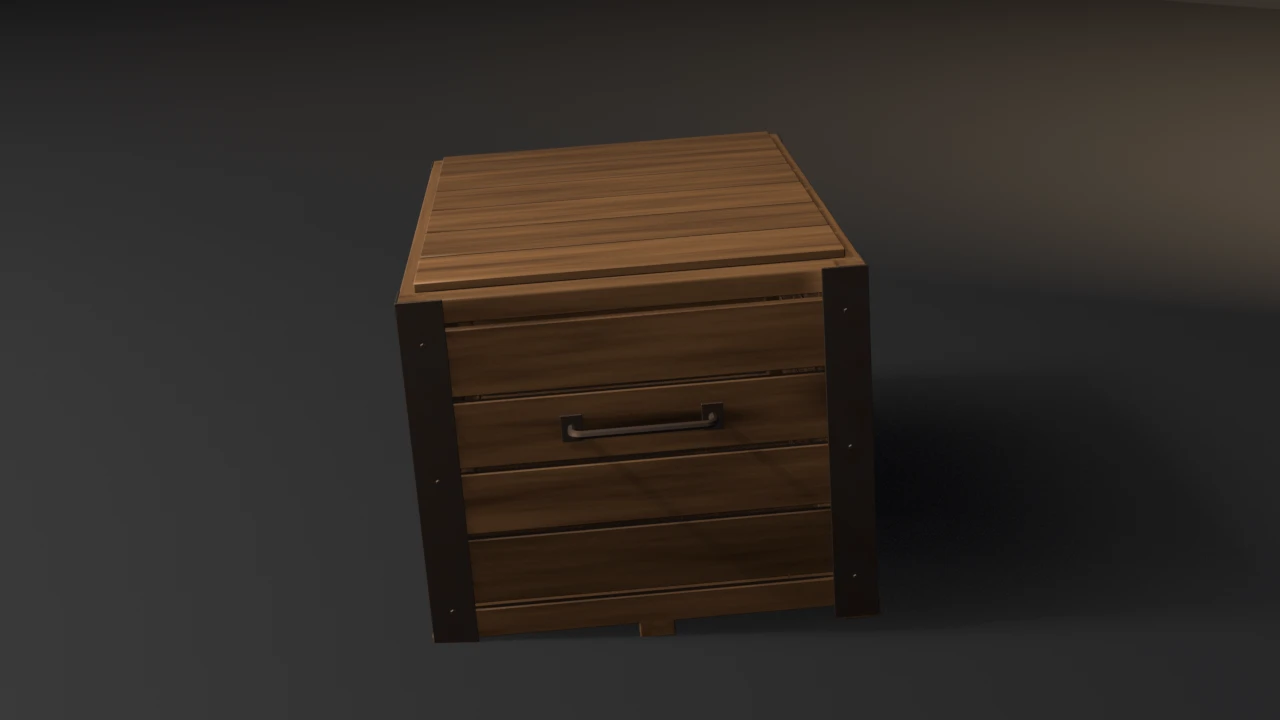
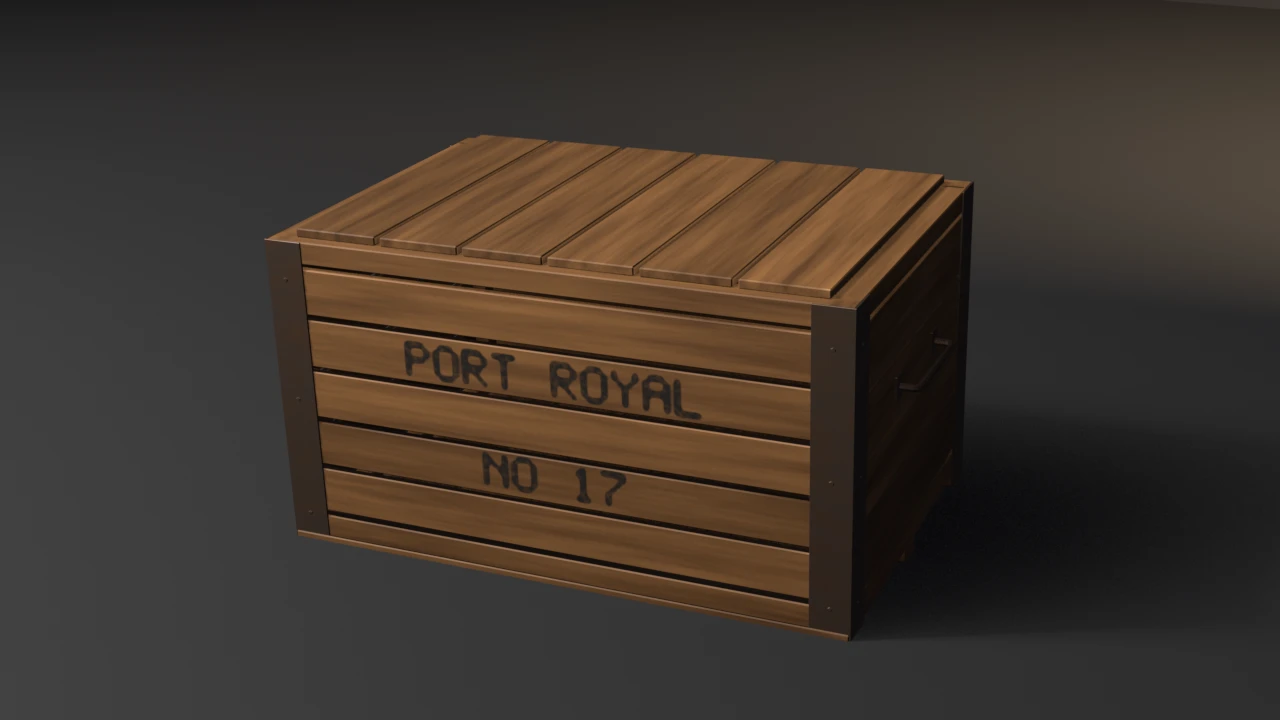
fix(showcase): redesign shipping-crate with stencilled cargo marks and a three-quarter hero
The crate read as a plain plank box, and its hero showed the long side
edge-on. Its front long side (-Y) now carries stencilled cargo marks,
PORT ROYAL over NO 17. They are surface only: a 5x7 bitmap font painted
into a small object-space image, cubic-filtered and thresholded into
rounded stencil strokes, bitten by overspray noise, and masked to the -Y
faces. Each line is centred on one long slat, found by replaying the same
seeded _span_layout that places the slats. The 64 mm cap height fits
inside the board, so the baseline runs along it. The image node is
deselected so the normal bake never targets it.

The hero turns the crate +15 degrees (was -48). The camera sits at about
-51 degrees azimuth, so the stencilled side is 24 degrees off the view
axis and the handle end 66 degrees. The key is brighter (680 -> 880 W)
and the stage 60 m. Geometry and every budget are unchanged.

Review fix, folded in: an earlier cut let both lines straddle a slat gap
and turned the crate only to -20 degrees. That left the side 59 degrees
off-axis, and the lettering read as sloping across the slats. The cause
was diagnosed by overlaying the slat centrelines projected through the
hero camera, and by a test render painting full-width bars at each
computed slat centre. The bars landed on the boards, so the mapping was
correct and the fix is placement plus view angle.

Evidence (live runs, local):
- .scratch/blender-5.2.1-windows-x64/blender.exe (Blender 5.2.1 LTS) and
[…]

Changed region(s): [[0.1875, 0.1833, 0.7812, 0.9167]]

diff --git a/showcase/shipping-crate/shipping_crate.py b/showcase/shipping-crate/shipping_crate.py
@@ -125,6 +125,138 @@ PLATE_BOARD_MARGIN = 0.004
 PLANK_TONE_JITTER = 0.28
 TONE_SEED = 29
 
+# Stencilled cargo marks on the front long side (-Y). Surface only: a 5x7
+# bitmap font painted into a small image covering the side in object space,
+# cubic-filtered and thresholded into rounded stencil strokes, masked to the
+# -Y faces. Each line is centred on one long slat (index from the bottom,
+# replayed from the same seeded _span_layout that places the slats) and is
+# shorter than the slat, so its baseline runs along the board rather than
+# across a gap: a line straddling a gap reads as sloping in perspective.
+STENCIL_LINES = (("PORT ROYAL", 0.0, 3), ("NO 17", 0.0, 1))
+STENCIL_PX = 0.0092           # metres per font pixel: 7 px = 64 mm < slat
+STENCIL_REGION = (-0.47, 0.47, 0.10, 0.56)   # object-space x0, x1, z0, z1
+
+# 5x7 bitmap glyphs, top row first; only the characters STENCIL_LINES uses.
+GLYPHS = {
+    "A": ("01110", "10001", "10001", "11111", "10001", "10001", "10001"),
+    "L": ("10000", "10000", "10000", "10000", "10000", "10000", "11111"),
+    "N": ("10001", "11001", "10101", "10011", "10001", "10001", "10001"),
+    "O": ("01110", "10001", "10001", "10001", "10001", "10001", "01110"),
+    "P": ("11110", "10001", "10001", "11110", "10000", "10000", "10000"),
+    "R": ("11110", "10001", "10001", "11110", "10100", "10010", "10001"),
+    "T": ("11111", "00100", "00100", "00100", "00100", "00100", "00100"),
+    "Y": ("10001", "10001", "01010", "00100", "00100", "00100", "00100"),
+    "1": ("00100", "01100", "00100", "00100", "00100", "00100", "01110"),
+    "7": ("11111", "00001", "00010", "00100", "01000", "01000", "01000"),
+    " ": ("00000",) * 7,
+}
+
+
+def long_slat_centres():
+    """World-z centre of each long side slat, bottom to top.
+
+    Replays the seeded draws build_crate_mesh makes before the long slats
+    (floor, then lid), so the stencil lands on the boards actually built.
+    """
+    ix, _iy, iz = INNER
+    rng = random.Random(SLAT_SEED)
+    _span_layout(N_FLOOR, ix, rng)
+    _span_layout(N_LID, ix + POST * 0.5, rng)
+    long_c, _long_w = _span_layout(N_LONG, iz - 0.04, rng)
+    return [SKID_H + 0.02 + iz / 2.0 + c for c in long_c]
+
+
+def stencil_image():
+    """Paint STENCIL_LINES into a greyscale image covering STENCIL_REGION."""
+    x0, x1, z0, z1 = STENCIL_REGION
+    w = int(round((x1 - x0) / STENCIL_PX))
+    h = int(round((z1 - z0) / STENCIL_PX))
+    buf = [0.0] * (w * h)
+    slat_z = long_slat_centres()
+    for text, cx, board in STENCIL_LINES:
+        cz = slat_z[board]
+        cols = len(text) * 6 - 1
+        px0 = int(round((cx - x0) / STENCIL_PX - cols / 2.0))
+        pz0 = int(round((cz - z0) / STENCIL_PX - 3.5))
+        for k, ch in enumerate(text):
+            rows = GLYPHS[ch]
+            for r in range(7):
+                for c in range(5):
+                    if rows[r][c] == "1":
+                        px, pz = px0 + k * 6 + c, pz0 + (6 - r)
+                        if 0 <= px < w and 0 <= pz < h:
+                            buf[pz * w + px] = 1.0
+    img = bpy.data.images.new("CrateStencil", w, h, alpha=False)
+    img.colorspace_settings.name = "Non-Color"
+    img.pixels.foreach_set([c for v in buf for c in (v, v, v, 1.0)])
+    return img
+
+
+def add_stencil(mat):
+    """Spray STENCIL_LINES over the wood colour on the -Y faces."""
+    nt = mat.node_tree
+    bsdf = nt.nodes["Principled BSDF"]
+    base = bsdf.inputs["Base Color"].links[0].from_socket
+    coord = nt.nodes.new("ShaderNodeTexCoord")
+    x0, x1, z0, z1 = STENCIL_REGION
+    sep = nt.nodes.new("ShaderNodeSeparateXYZ")
+    nt.links.new(coord.outputs["Object"], sep.inputs["Vector"])
+    uu = nt.nodes.new("ShaderNodeMapRange")
+    uu.inputs["From Min"].default_value = x0
+    uu.inputs["From Max"].default_value = x1
+    nt.links.new(sep.outputs["X"], uu.inputs["Value"])
+    vv = nt.nodes.new("ShaderNodeMapRange")
+    vv.inputs["From Min"].default_value = z0
+    vv.inputs["From Max"].default_value = z1
+    nt.links.new(sep.outputs["Z"], vv.inputs["Value"])
+    uvw = nt.nodes.new("ShaderNodeCombineXYZ")
+    nt.links.new(uu.outputs["Result"], uvw.inputs["X"])
+    nt.links.new(vv.outputs["Result"], uvw.inputs["Y"])
+    img = nt.nodes.new("ShaderNodeTexImage")
+    img.image = stencil_image()
+    img.interpolation = "Cubic"
+    img.extension = "CLIP"
+    # never the bake target: the normal bake writes into the active, selected
+    # image node of each material, and this one is paint
+    img.select = False
+    nt.links.new(uvw.outputs["Vector"], img.inputs["Vector"])
+    stroke = nt.nodes.new("ShaderNodeMapRange")
+    stroke.inputs["From Min"].default_value = 0.26
+    stroke.inputs["From Max"].default_value = 0.44
+    nt.links.new(img.outputs["Color"], stroke.inputs["Value"])
+    # overspray: a fine noise eats into the paint so it reads as sprayed
+    spray = nt.nodes.new("ShaderNodeTexNoise")
+    spray.inputs["Scale"].default_value = 90.0
+    spray.inputs["Detail"].default_value = 4.0
+    nt.links.new(coord.outputs["Object"], spray.inputs["Vector"])
+    bite = nt.nodes.new("ShaderNodeMapRange")
+    bite.inputs["From Min"].default_value = 0.30
+    bite.inputs["From Max"].default_value = 0.55
+    bite.inputs["To Min"].default_value = 0.72
+    bite.inputs["To Max"].default_value = 1.0
+    nt.links.new(spray.outputs["Fac"], bite.inputs["Value"])
+    nsep = nt.nodes.new("ShaderNodeSeparateXYZ")
+    nt.links.new(coord.outputs["Normal"], nsep.inputs["Vector"])
+    front = nt.nodes.new("ShaderNodeMath")
+    front.operation = "LESS_THAN"
+    front.inputs[1].default_value = -0.9
+    nt.links.new(nsep.outputs["Y"], front.inputs[0])
+    fac = nt.nodes.new("ShaderNodeMath")
+    fac.operation = "MULTIPLY"
+    nt.links.new(stroke.outputs["Result"], fac.inputs[0])
+    nt.links.new(front.outputs["Value"], fac.inputs[1])
+    fac2 = nt.nodes.new("ShaderNodeMath")
+    fac2.operation = "MULTIPLY"
+    nt.links.new(fac.outputs["Value"], fac2.inputs[0])
+    nt.links.new(bite.outputs["Result"], fac2.inputs[1])
+    paint = nt.nodes.new("ShaderNodeMix")
+    paint.data_type = "RGBA"
+    _sock(paint.inputs, "B_Color").default_value = (0.022, 0.020, 0.019, 1.0)
+    nt.links.new(fac2.outputs["Value"], _sock(paint.inputs, "Factor_Float"))
+    nt.links.new(base, _sock(paint.inputs, "A_Color"))
+    nt.links.new(_sock(paint.outputs, "Result_Color"), bsdf.inputs["Base Color"])
+    nt.nodes.active = bsdf
+
 
 def eevee_engine_id():
     """EEVEE id: 'BLENDER_EEVEE' on 5.0+, 'BLENDER_EEVEE_NEXT' on 4.2-4.5.
@@ -719,6 +851,7 @@ def wood_material(name):
 def crate_materials():
     """(wood, iron): shared by the check, the render and inspection."""
     wood = wood_material("CrateWood")
+    add_stencil(wood)
     metal = principled(
         "CrateMetal", (0.17, 0.165, 0.155, 1.0), 0.80, 0.46,
         noise_scale=18.0, wear=(0.20, 0.085, 0.032, 1.0),
@@ -1436,13 +1569,18 @@ def render_still(low, wood, tex, path, engine):
             ob.hide_render = True
             ob.hide_viewport = True
 
-    low.rotation_euler.z = math.radians(-48.0)
+    # The camera sits at about -51 deg azimuth. Turning the crate +15 deg puts
+    # the stencilled long side (-Y) 24 deg off the view axis and the handle
+    # end (+X) 66 deg off it: a three-quarter view led by the lettering. At
+    # -48 the side was edge-on; at -20 it was 59 deg off-axis and the
+    # stencil foreshortened into a steep italic that read as a mapping error.
+    low.rotation_euler.z = math.radians(15.0)
     low.rotation_euler.x = math.radians(4.0)
 
     floor_me = bpy.data.meshes.new("Floor")
     bm = bmesh.new()
     try:
-        bmesh.ops.create_grid(bm, x_segments=1, y_segments=1, size=14.0)
+        bmesh.ops.create_grid(bm, x_segments=1, y_segments=1, size=60.0)
         bm.to_mesh(floor_me)
     finally:
         bm.free()
@@ -1476,7 +1614,7 @@ def render_still(low, wood, tex, path, engine):
         ob.rotation_euler = tuple(math.radians(a) for a in rot)
         scene.collection.objects.link(ob)
 
-    light("Key", (-3.6, -5.0, 5.8), 680.0, 4.0, (1.0, 0.94, 0.86), (50, 0, -36))
+    light("Key", (-3.6, -5.0, 5.8), 880.0, 4.0, (1.0, 0.94, 0.86), (50, 0, -36))
     light("Fill", (5.0, -3.6, 2.6), 48.0, 8.0, (0.72, 0.82, 1.0), (62, 0, 50))
     light("Wedge", (2.4, 4.2, 4.1), 640.0, 5.5, (1.0, 0.70, 0.40), (-70, 0, 198))
 

diff --git a/showcase/shipping-crate/README.md b/showcase/shipping-crate/README.md
@@ -34,7 +34,7 @@ materials, UVs, evaluated LOD, collider, or export file.
 | UVs | in `0..1`, AABB overlap ≤ 1e-5 | in range, overlap 0 |
 | Outer AABB | (1.146, 0.726, 0.612) m ± 0.015 | (1.1460, 0.7260, 0.6120), zmin 0 |
 | Collider tris | ≤ 220 | 116 |
-| Export | written, size > 0 | 273816 / 273816 / 273800 bytes |
+| Export | written, size > 0 | 274624 (4.5.11) / 274680 (5.2.1) bytes |
 
 Base triangles rose from **624 to 2508** in the quality pass: the old
 beveled cube with glued-on slats became a post-and-slat crate with
@@ -103,6 +103,30 @@ The inspection sheet found the iron and the handles built the way
 The right-angle-edge budget from `crate-stack` is not applied here: the
 handle bail's pipe ends are square discs buried in the mounting plates,
 so "every box is chamfered" does not hold for this piece.
+
+### Third pass (stencil, hero angle)
+
+The crate read as a plain plank box: nothing on it said what it was for.
+Its front long side (-Y) now carries stencilled cargo marks, PORT ROYAL
+over NO 17. They are surface only: a 5x7 bitmap font painted into a small
+image covering the side in object space, cubic-filtered and thresholded
+into rounded stencil strokes, bitten by a fine overspray noise, and masked
+to the -Y faces. Each line is centred on one long slat, replayed from the
+same seeded `_span_layout` that places the slats, and its 64 mm cap height
+fits inside the board, so the baseline runs along the board. The first cut
+let both lines straddle a gap, which in perspective read as lettering
+sloping across the slats. The image node is deselected so the normal bake
+never targets it. Geometry, triangles, material face counts and every budget
+are unchanged; the glTF grows by about 800 bytes.
+
+The hero turned the crate -48 degrees, which put the long side
+edge-on. The camera sits at about -51 degrees azimuth, so the crate now
+turns +15 degrees: the stencilled side is 24 degrees off the view axis
+and the handle end 66 degrees, a three-quarter view led by the
+lettering. An intermediate -20 degrees left the side 59 degrees
+off-axis, where the stencil foreshortened into a steep italic. The key
+is brighter and the stage is 60 m (the 14 m grid could show its
+edge).
 
 ### Falsifiers
 

diff --git a/README.md b/README.md
@@ -109,7 +109,7 @@ Budget-conformance props. Not examples. Conventions: [`showcase/README.md`](show
 <summary><strong>36 showcase pieces</strong> — click to expand the preview grid</summary>
 
 <p align="center">
-  <a href="showcase/shipping-crate/"><img src="showcase/shipping-crate/preview.webp" width="24%" alt="Shipping crate: a wooden slat crate with iron corner brackets on a dark studio floor, warm wedge on the back wall" /></a>
+  <a href="showcase/shipping-crate/"><img src="showcase/shipping-crate/preview.webp" width="24%" alt="Shipping crate: a wooden slat crate stencilled PORT ROYAL and NO 17, with iron corner brackets and an end handle, on a dark studio floor, warm wedge on the back wall" /></a>
   <a href="showcase/stone-well/"><img src="showcase/stone-well/preview.webp" width="24%" alt="Stone well: a round well of varied grey stones with a grained wooden pyramid roof on posts, rope and a bucket on rusted iron hoops, on a dark studio floor" /></a>
   <a href="showcase/wooden-barrel/"><img src="showcase/wooden-barrel/preview.webp" width="24%" alt="Wooden barrel: a 20-stave wine-cask with a head of four boards, chord-lofted iron hoops, and a bung on a dark studio floor" /></a>
   <a href="showcase/campfire/"><img src="showcase/campfire/preview.webp" width="24%" alt="Campfire: a two-course ring of rounded fieldstones around a tripod of logs and glowing ash on a dark studio floor, warm wedge on the back wall" /></a>
